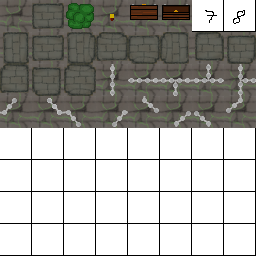
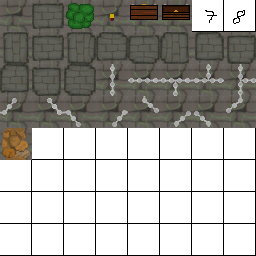
more textures and normal maps

Changed region(s): [[0.0, 0.5, 0.125, 0.625]]

diff --git a/Game++ Tile/src/de/nerogar/game/Map.java b/Game++ Tile/src/de/nerogar/game/Map.java
@@ -55,10 +55,12 @@ public class Map {
 	public static final Tile FENCE_DOOR_RD = new Tile(29, false);
 	public static final Tile FENCE_DOOR_LD = new Tile(30, false);
 	public static final Tile FENCE_DOOR_LU = new Tile(31, false);
+	public static final Tile STONES = new Tile(32, true);
 
 	public static final Tile[] TILES = new Tile[] { FLOOR, ROCK, TREE, TORCH, CHEST, OPEN_CHEST, DOOR, DOOR_OPEN, //
-			WALL_V, WALL_H, WALL_TR, WALL_TU, WALL_TD, WALL_TL, WALL_RU, WALL_RD, WALL_LU, WALL_LD, WALL_CROSS,//
-			FENCE_V, FENCE_H, FENCE_TD, FENCE_TU, FENCE_TR, FENCE_DOOR_UL, FENCE_DOOR_UR, FENCE_DOOR_DL, FENCE_DOOR_DR, FENCE_DOOR_RU, FENCE_DOOR_RD, FENCE_DOOR_LD, FENCE_DOOR_LU };
+	WALL_V, WALL_H, WALL_TR, WALL_TU, WALL_TD, WALL_TL, WALL_RU, WALL_RD, WALL_LU, WALL_LD, WALL_CROSS,//
+	FENCE_V, FENCE_H, FENCE_TD, FENCE_TU, FENCE_TR, FENCE_DOOR_UL, FENCE_DOOR_UR, FENCE_DOOR_DL, FENCE_DOOR_DR, FENCE_DOOR_RU, FENCE_DOOR_RD, FENCE_DOOR_LD, FENCE_DOOR_LU,//
+	STONES };
 
 	//texture
 	public static final float TILE_RENDER_SIZE = 64f;

diff --git a/Game++ Tile/src/de/nerogar/game/Wave.java b/Game++ Tile/src/de/nerogar/game/Wave.java
@@ -36,15 +36,19 @@ public class Wave {
 	private void spawnEnemies() {
 
 		for (int i = 0; i < 10; i++) {
+			map.spawnEntity(new EnemyRat(map, getRandomSpawnLocation()));
+		}
+		
+		for (int i = 0; i < 10; i++) {
 			map.spawnEntity(new EnemyNekro(map, getRandomSpawnLocation()));
 		}
 
-		for (int i = 0; i < 10; i++) {
-			//map.spawnEntity(new EnemyBigSkeleton(map, getRandomSpawnLocation()));
+		for (int i = 0; i < 3; i++) {
+			map.spawnEntity(new EnemyBigSkeleton(map, getRandomSpawnLocation()));
 		}
 
-		for (int i = 0; i < 10; i++) {
-			//map.spawnEntity(new EnemyGhost(map, getRandomSpawnLocation()));
+		for (int i = 0; i < 5; i++) {
+			map.spawnEntity(new EnemyGhost(map, getRandomSpawnLocation()));
 		}
 	}
 }

diff --git a/Game++ Tile/src/de/nerogar/game/MapLoader.java b/Game++ Tile/src/de/nerogar/game/MapLoader.java
@@ -69,11 +69,15 @@ public class MapLoader {
 			return Map.FLOOR.id;//bones
 
 		case 0x000000:
-			return Map.TREE.id;// +
+			return Map.TREE.id;
+			
+		case 0x00000a:
+			return Map.STONES.id;
+			
+		case 0x969600:
+			return Map.TORCH.id;
 			//old
 
-		case 0x00a000:
-			return Map.FLOOR.id;
 			/*case 0x00a000:
 				return Map.FLOOR.id;
 			case 0x000000:
